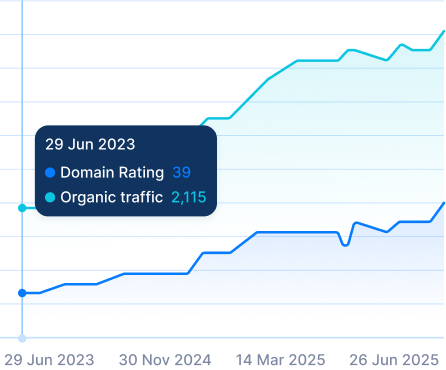
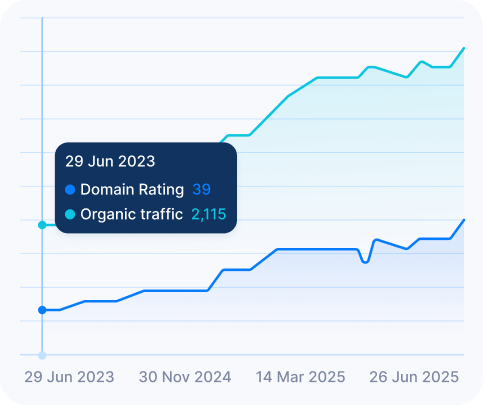
Update image references in the content writing page slider

Changed region(s): [[0.0, 0.0, 1.0, 1.0], [0.9619, 0.2676, 0.991, 0.2973]]

diff --git a/content_writing/index.html b/content_writing/index.html
@@ -498,7 +498,7 @@
                                             </div>
                                         </div>
                                         <div class="our-work-slider-slide__content">
-                                            <img src="./assets/images/content_writing/slide-1.png" alt="Slide 1">
+                                            <img src="./assets/images/content_writing/slide-2.png" alt="Slide 1">
                                         </div>
                                         <div class="our-work-slider-slide__bottom">
                                             <h3 class="our-work-slider-slide__title">
@@ -580,7 +580,7 @@
                                             </div>
                                         </div>
                                         <div class="our-work-slider-slide__content">
-                                            <img src="./assets/images/content_writing/slide-1.png" alt="Slide 1">
+                                            <img src="./assets/images/content_writing/slide-3.png" alt="Slide 1">
                                         </div>
                                         <div class="our-work-slider-slide__bottom">
                                             <h3 class="our-work-slider-slide__title">
@@ -663,7 +663,7 @@
                                             </div>
                                         </div>
                                         <div class="our-work-slider-slide__content">
-                                            <img src="./assets/images/content_writing/slide-1.png" alt="Slide 1">
+                                            <img src="./assets/images/content_writing/slide-4.png" alt="Slide 1">
                                         </div>
                                         <div class="our-work-slider-slide__bottom">
                                             <h3 class="our-work-slider-slide__title">
